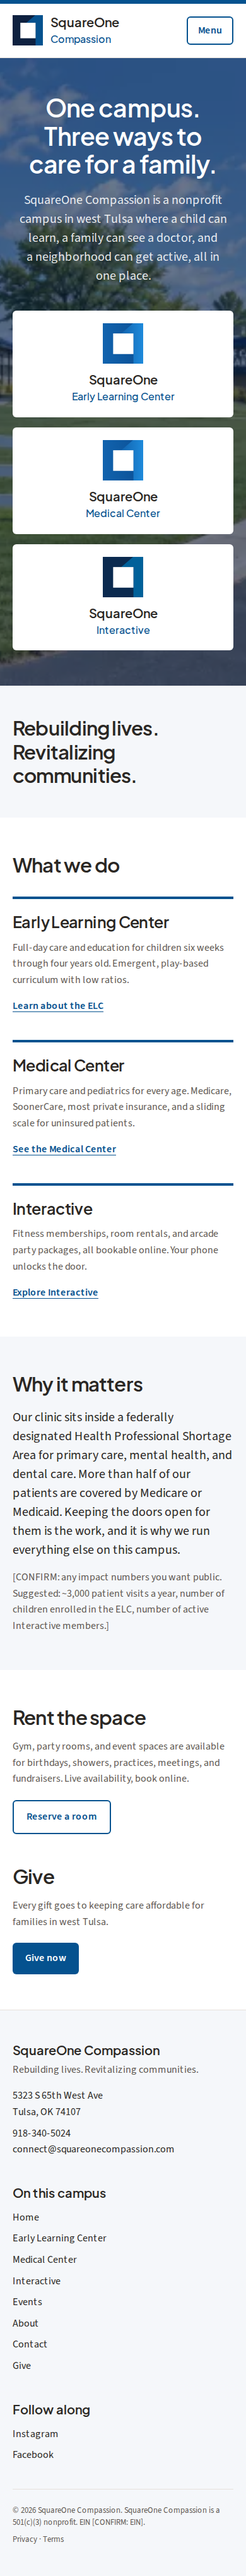
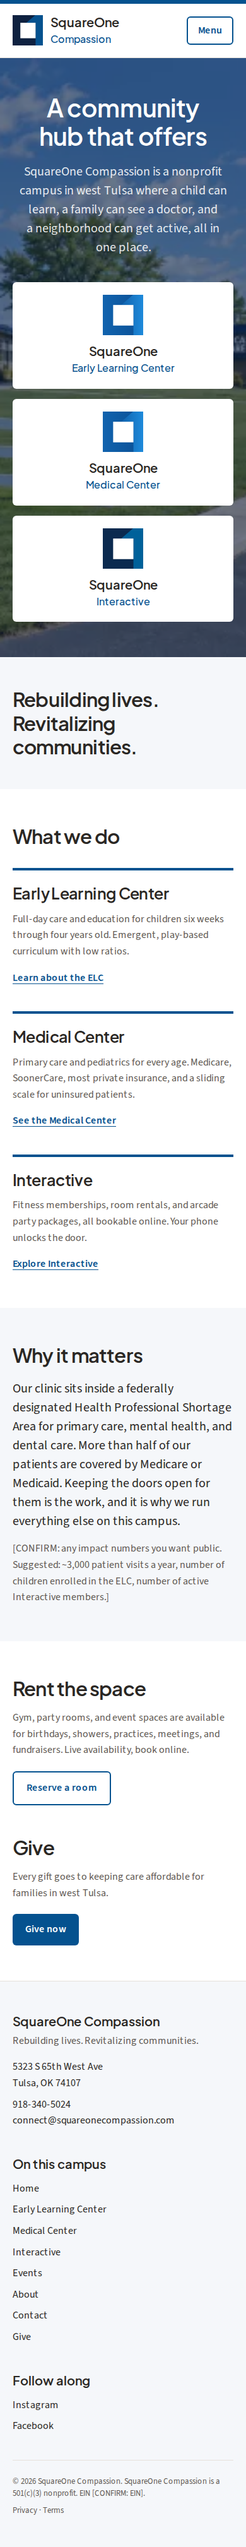
Change the home hero headline to "A community hub that offers"
Claude-Session: https://claude.ai/code/session_01Dy1NBE1CDjARVuM4emY1ru

diff --git a/app/page.tsx b/app/page.tsx
@@ -9,7 +9,7 @@ export default function HomePage() {
   return (
     <>
       <Hero
-        headline="One campus. Three ways to care for a family."
+        headline="A community hub that offers"
         subhead="SquareOne Compassion is a nonprofit campus in west Tulsa where a child can learn, a family can see a doctor, and a neighborhood can get active, all in one place."
       />
 

diff --git a/content/COPY.md b/content/COPY.md
@@ -20,7 +20,7 @@ Things deliberately removed from the old site because they are not current opera
 
 ## Home
 
-**Hero headline:** One campus. Three ways to care for a family.
+**Hero headline:** A community hub that offers
 
 **Hero subhead:** SquareOne Compassion is a nonprofit campus in west Tulsa where a child can learn, a family can see a doctor, and a neighborhood can get active, all in one place.
 
